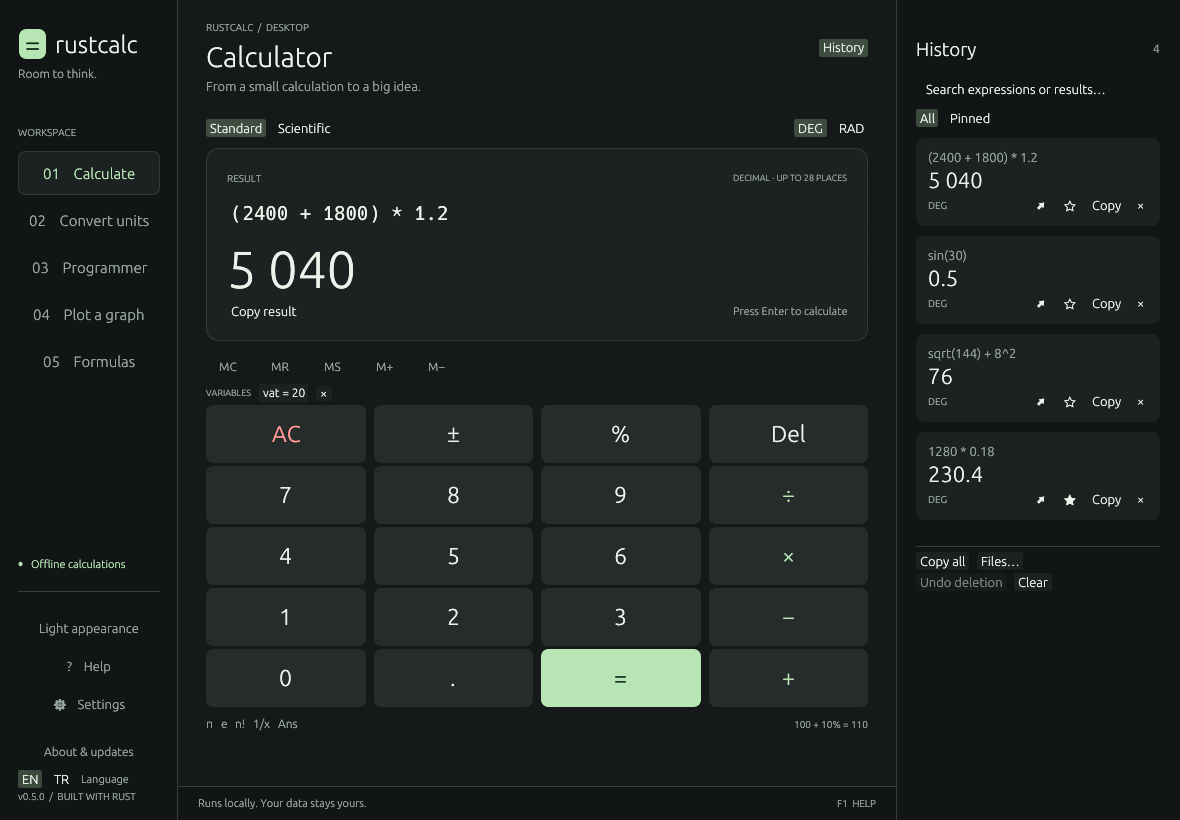
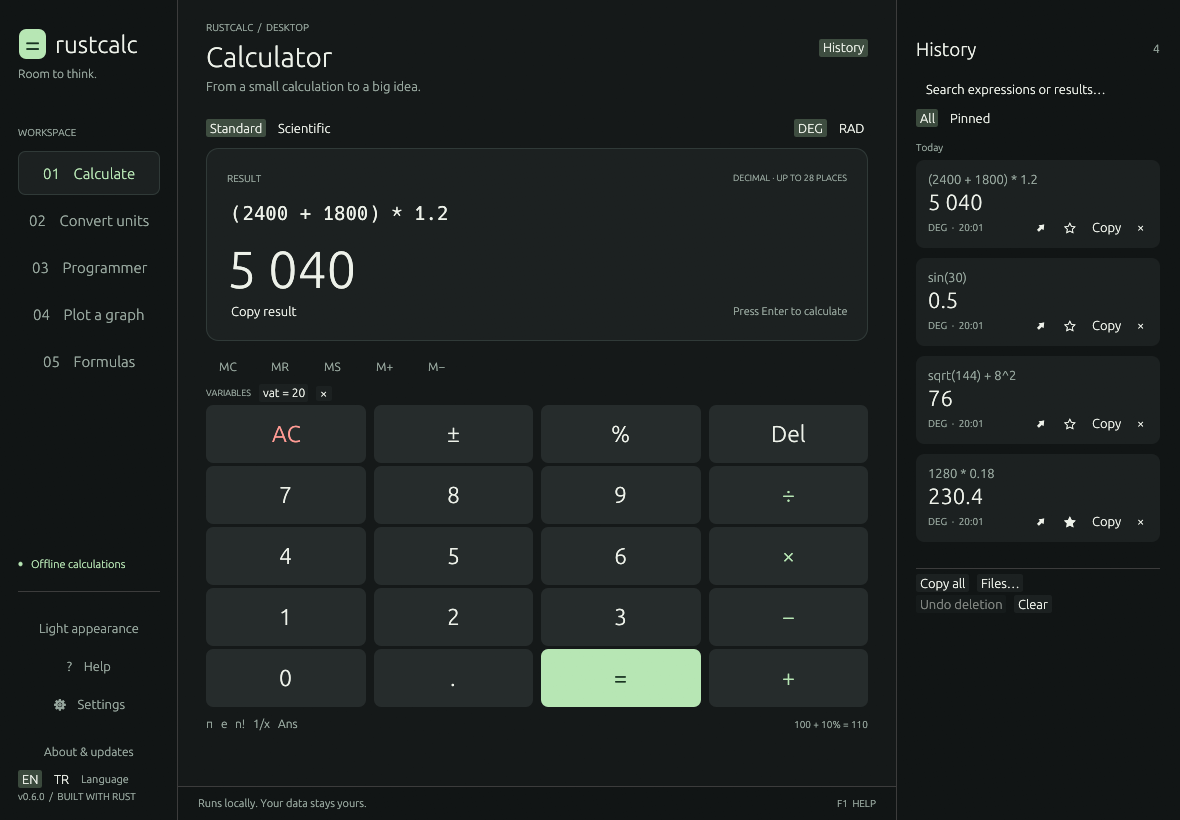
chore: prepare RustCalc 0.6.0

diff --git a/docs/INSTALLATION.md b/docs/INSTALLATION.md
@@ -20,7 +20,7 @@ Inspect and run `install.ps1` using Windows PowerShell 5.1+ or PowerShell 7+.
 
 ```powershell
 & .\install.ps1
-& .\install.ps1 -Version 0.5.0
+& .\install.ps1 -Version 0.6.0
 & .\install.ps1 -InstallDir "$env:LOCALAPPDATA\Tools\RustCalc"
 & .\install.ps1 -NoPath -NoShortcut
 ```
@@ -38,7 +38,7 @@ PowerShell process cannot modify its parent's environment; open a new terminal.
 
 Offline: download `rustcalc-windows-x86_64.exe`, `uninstall.ps1` and
 `SHA256SUMS` from the same release, then run
-`& .\install.ps1 -FromDirectory C:\Downloads\RustCalc -Version 0.5.0`.
+`& .\install.ps1 -FromDirectory C:\Downloads\RustCalc -Version 0.6.0`.
 
 Uninstall with `& "$env:LOCALAPPDATA\Programs\RustCalc\uninstall.ps1"` (or the
 `uninstall.ps1` of a custom installation). Only owned files, the exact PATH
@@ -57,7 +57,7 @@ rustcalc
 
 | Option | Effect |
 | --- | --- |
-| `--version 0.5.0` | Install a specific release instead of the latest |
+| `--version 0.6.0` | Install a specific release instead of the latest |
 | `--install-dir DIR` | Program folder (default `~/.local/opt/rustcalc`) |
 | `--bin-dir DIR` | Folder for the `rustcalc` command link (default `~/.local/bin`) |
 | `--from-directory DIR` | Offline install from downloaded files; needs `--version` |
@@ -73,7 +73,7 @@ macOS. It never edits shell startup files: if `~/.local/bin` is not on your
 PATH it says so, and you can add it yourself.
 
 Offline: download `rustcalc-<platform>`, `uninstall.sh` and `SHA256SUMS` from the
-same release and run `sh install.sh --from-directory ~/Downloads --version 0.5.0`.
+same release and run `sh install.sh --from-directory ~/Downloads --version 0.6.0`.
 
 Uninstall with `sh ~/.local/opt/rustcalc/uninstall.sh`. It checks the
 installation marker, removes the program, its rollback copy and only the link,

diff --git a/docs/RELEASING.md b/docs/RELEASING.md
@@ -42,7 +42,7 @@ those exact artifacts, writes one `SHA256SUMS` with
 is the single list of asset names for packaging, publishing and verification.
 
 On Linux or macOS, verify a published release with
-`sh scripts/test-live-release.sh 0.5.1 0.5.0` (install, self-update, rollback,
+`sh scripts/test-live-release.sh 0.6.0 0.5.0` (install, self-update, rollback,
 redo and uninstall in a temporary HOME); omit the second version for an
 install-only proof.
 
@@ -66,8 +66,8 @@ persistent user PATH. The second form exercises the real self-update command
 between two published versions, then checks the final executable hash and removal.
 
 ```powershell
-pwsh -NoProfile -File scripts/test-live-release.ps1 -Version 0.5.0
-pwsh -NoProfile -File scripts/test-live-release.ps1 -Version 0.5.0 -UpgradeFrom 0.4.0
+pwsh -NoProfile -File scripts/test-live-release.ps1 -Version 0.6.0
+pwsh -NoProfile -File scripts/test-live-release.ps1 -Version 0.6.0 -UpgradeFrom 0.5.0
 ```
 
 JSON proof reports are saved in `artifacts/live-release-v<VERSION>.json`. The

diff --git a/CHANGELOG.md b/CHANGELOG.md
@@ -3,7 +3,7 @@
 Versions follow semantic versioning. During 0.x, product and library interfaces
 may evolve before the first stable contract.
 
-## Unreleased
+## 0.6.0 — Readable numbers, variables and settings
 
 ### Added
 
@@ -39,7 +39,6 @@ may evolve before the first stable contract.
 
 - The **Close** button of the history file error dialog was not translated. A
   test now requires every interface text to have a catalogue entry.
-
 - On Windows, a program put in place by self-update or rollback kept the
   temporary-file attribute of its staging file; it is now an ordinary file.
 
